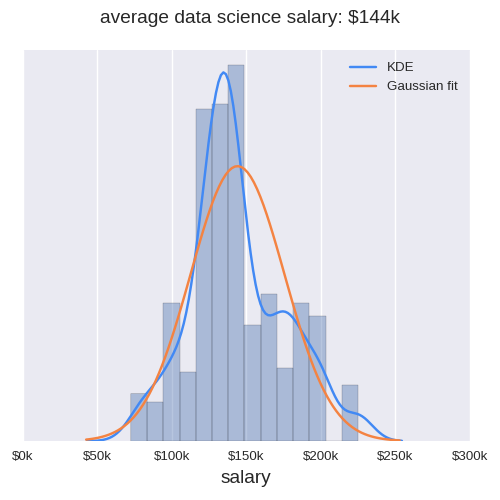
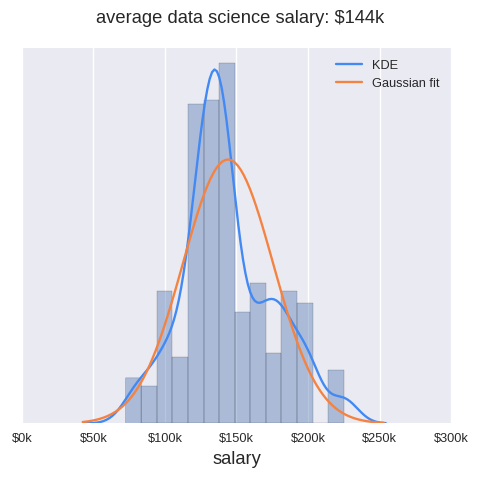
FEAT: hopefully fix mpl

diff --git a/app/static/js/app.js b/app/static/js/app.js
@@ -85,7 +85,8 @@ var get_job_stats = function(search_term) {
         var salary_plot = json_data['salary_file'];
         // make it refresh with each date
         var shebang = new Date().getTime();
-        $('#search_results2').append('<img id="salary_img" src="' + salary_plot + '?' + shebang + '" />');
+        var im_height = 480 / 1366 * hw[1];
+        $('#search_results2').append('<img id="salary_img" src="' + salary_plot + '?' + shebang + '" height="' + im_height + '" width="' + im_height + '" />');
         $('#salary_img').css('display', 'inline-block');
         $('#locs_plot').css('display', 'inline-block');
         $('#states_plot').css('display', 'inline-block');

diff --git a/dice_code/collect_api.py b/dice_code/collect_api.py
@@ -1430,7 +1430,9 @@ def plot_salary_dist(sal_dict=None, key='full_time', search_term='data scientist
     """
     if hw is not None:
         # scale factor for screen width
-        scale_factor = 500 / 1366. * hw[1] / 100
+        # used to do it this way, but a problem on mobile
+        # scale_factor = 500 / 1366. * hw[1] / 100
+        scale_factor = 5
         # typical figsize is 6x8 with 80 dpi, so about 2 dpi/inch^2.
         # scale factor is in inches, about 5 in for my screen
         # so this will give about 96 dpi for a 5x5 figure
